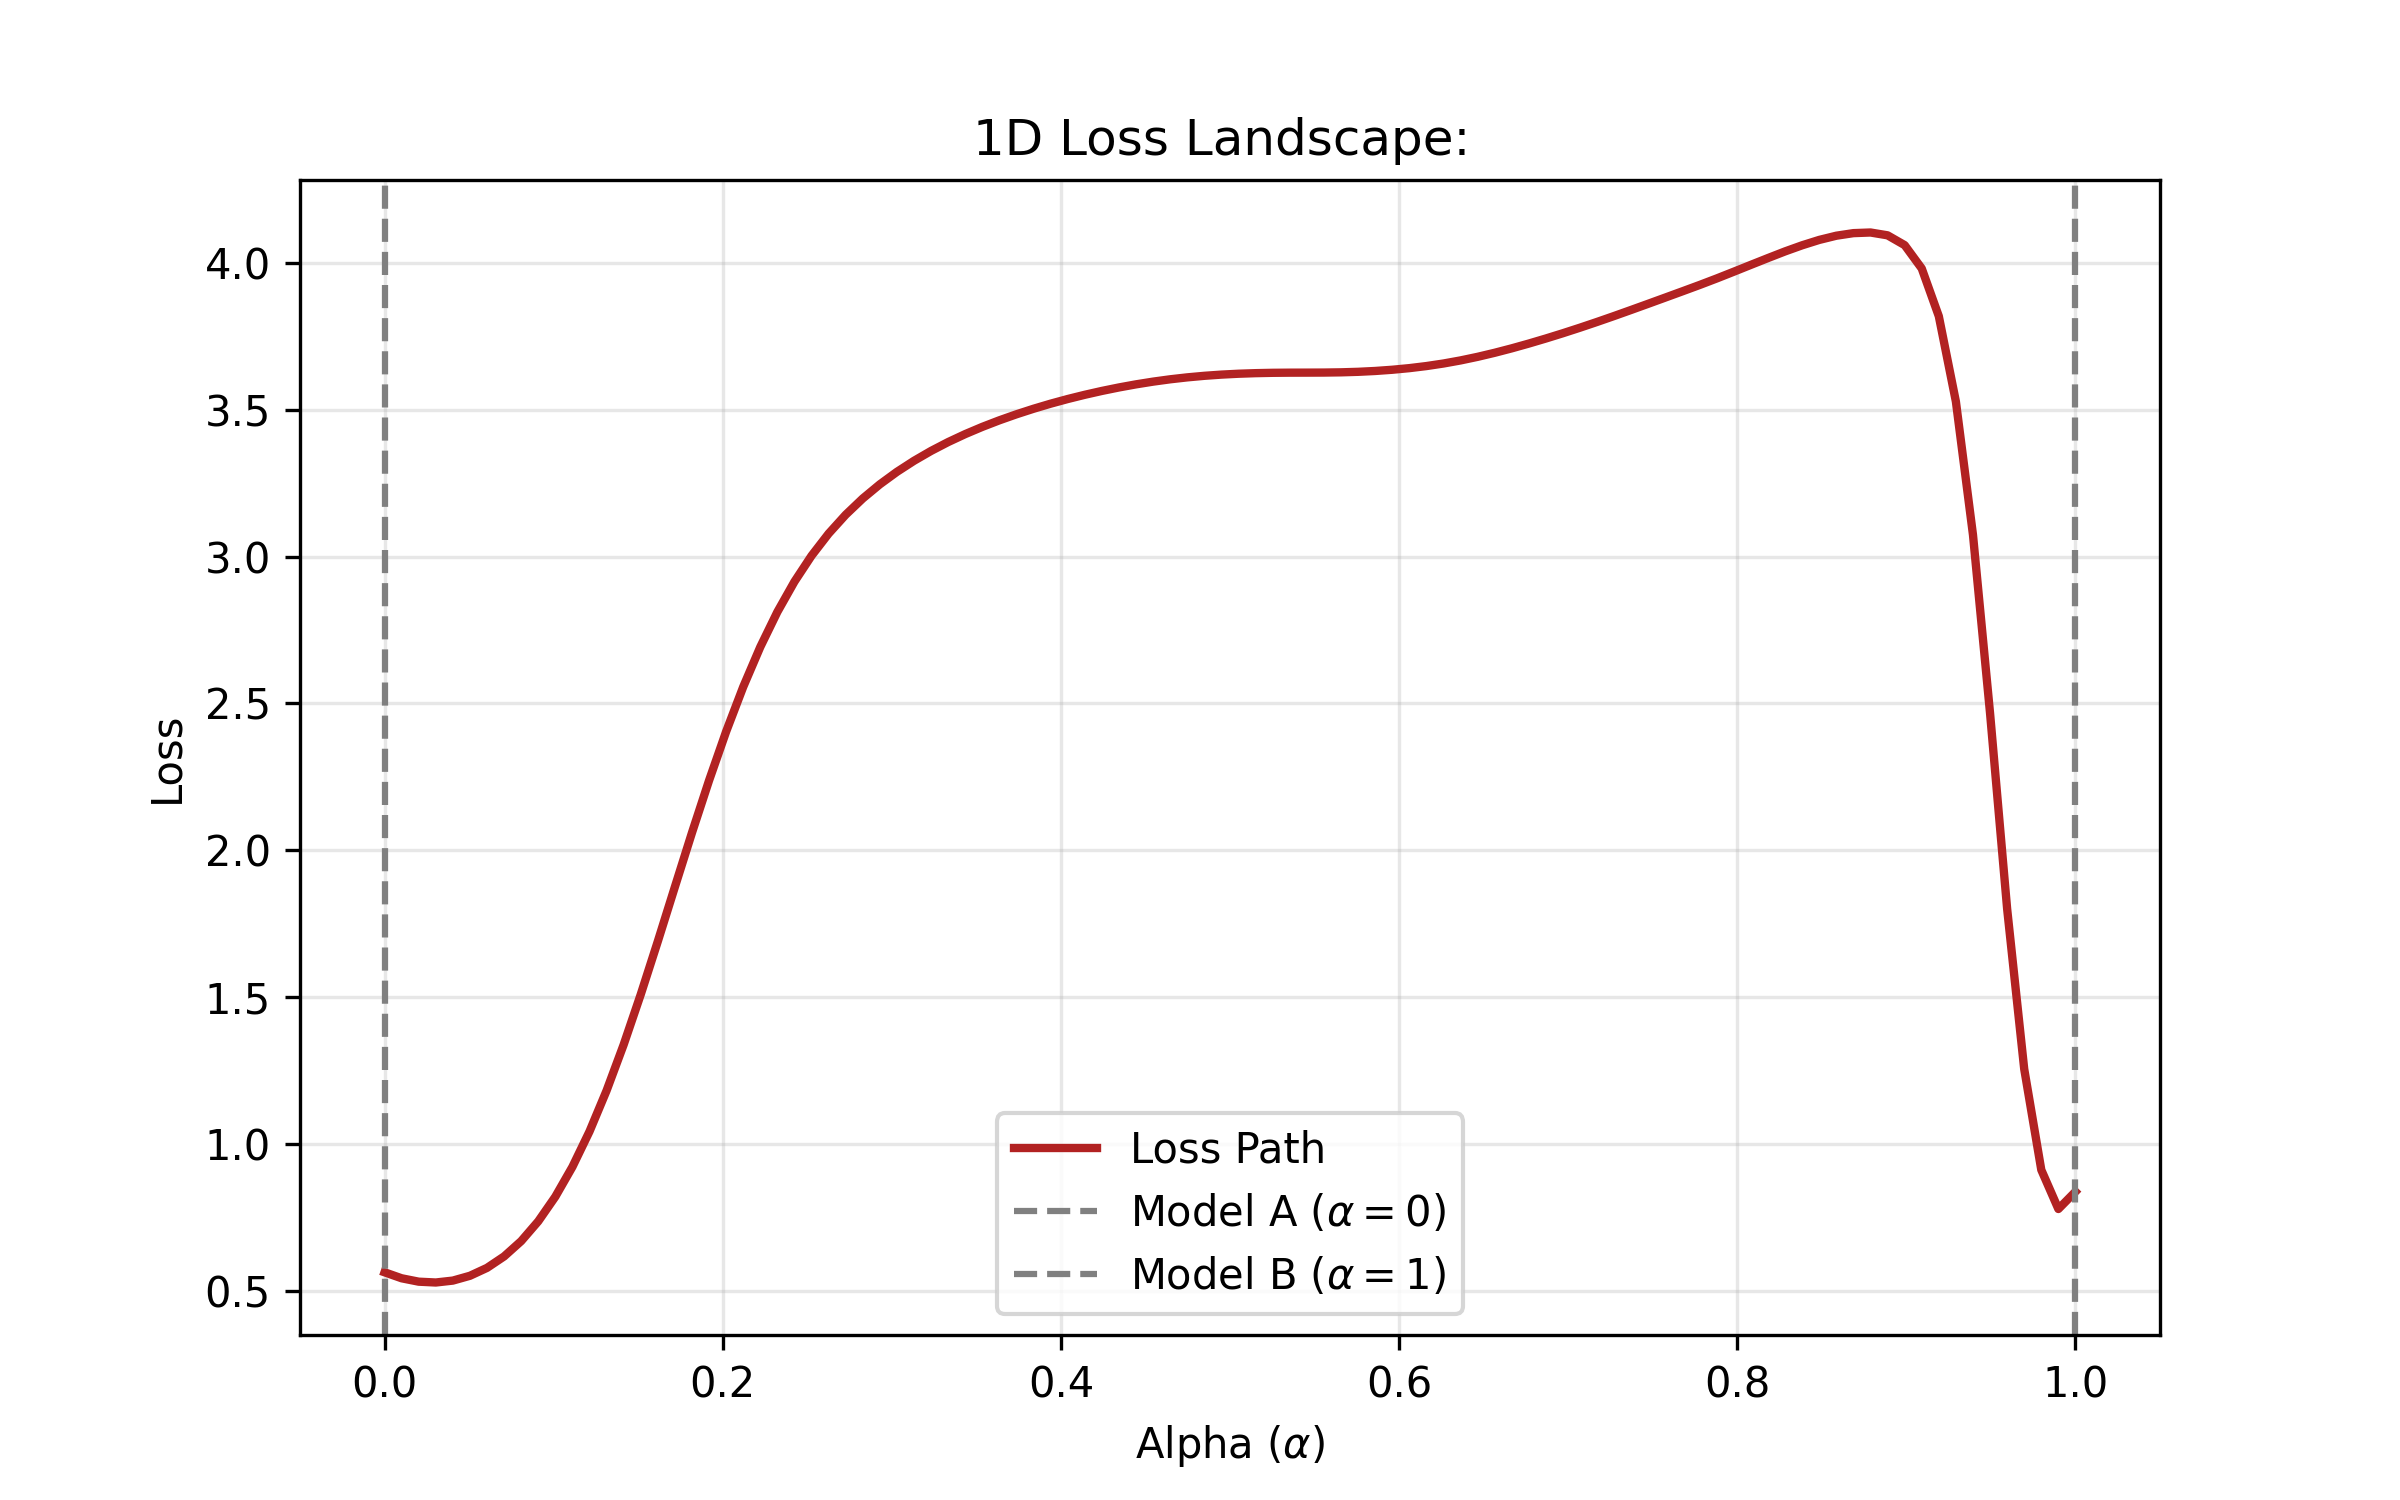
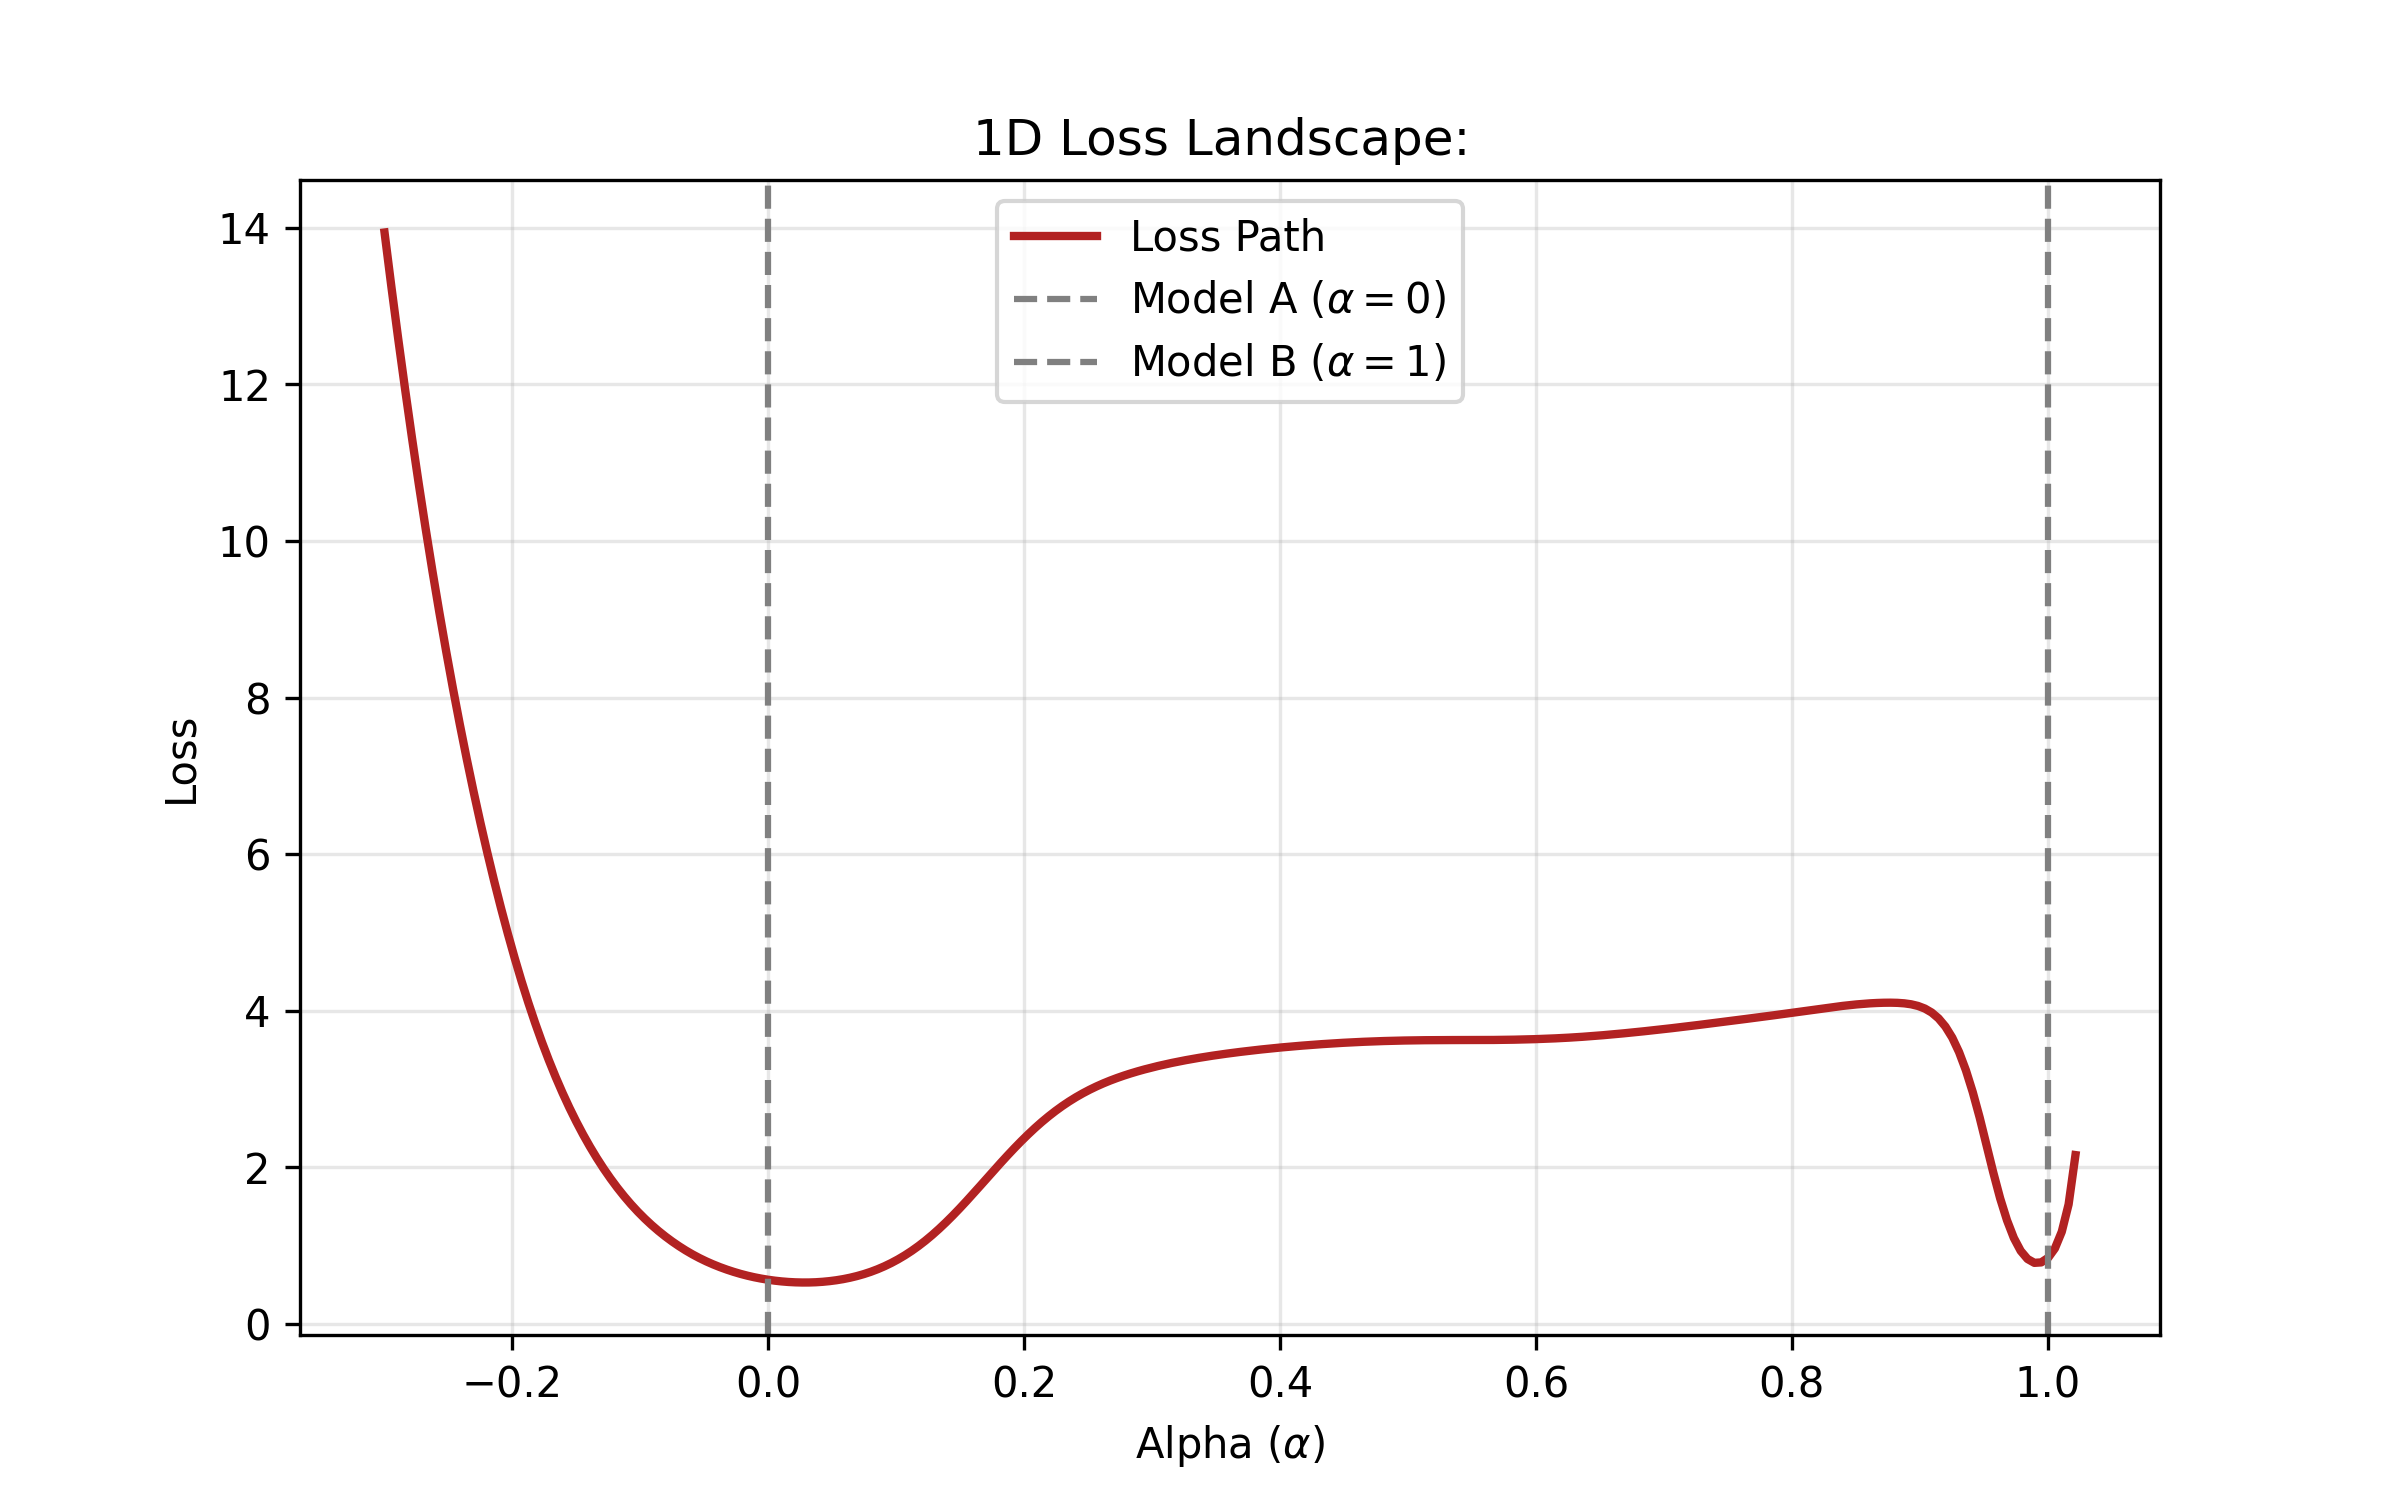
more pts

diff --git a/notebooks/line_bw2.py b/notebooks/line_bw2.py
@@ -54,7 +54,7 @@ def plot_loss_landscape_generic(model_class, state_dict_A, state_dict_B, test_lo
     blended_model = model_class().to(device)
     blended_model.eval()
     
-    alpha_values = np.linspace(0, 1, 100)
+    alpha_values = np.linspace(-0.3, 1.3, 300)
     loss_values = []
     
     with torch.no_grad():
